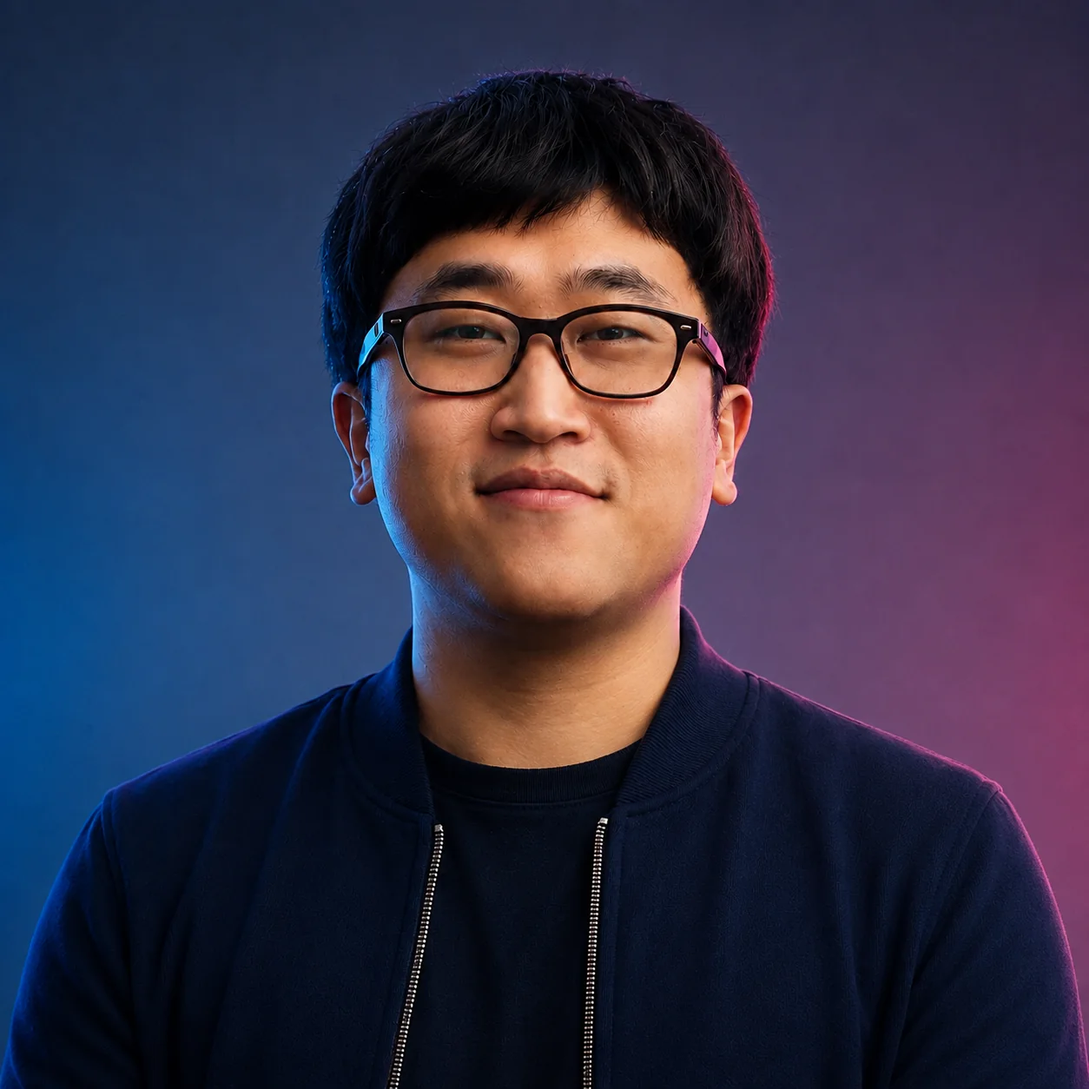
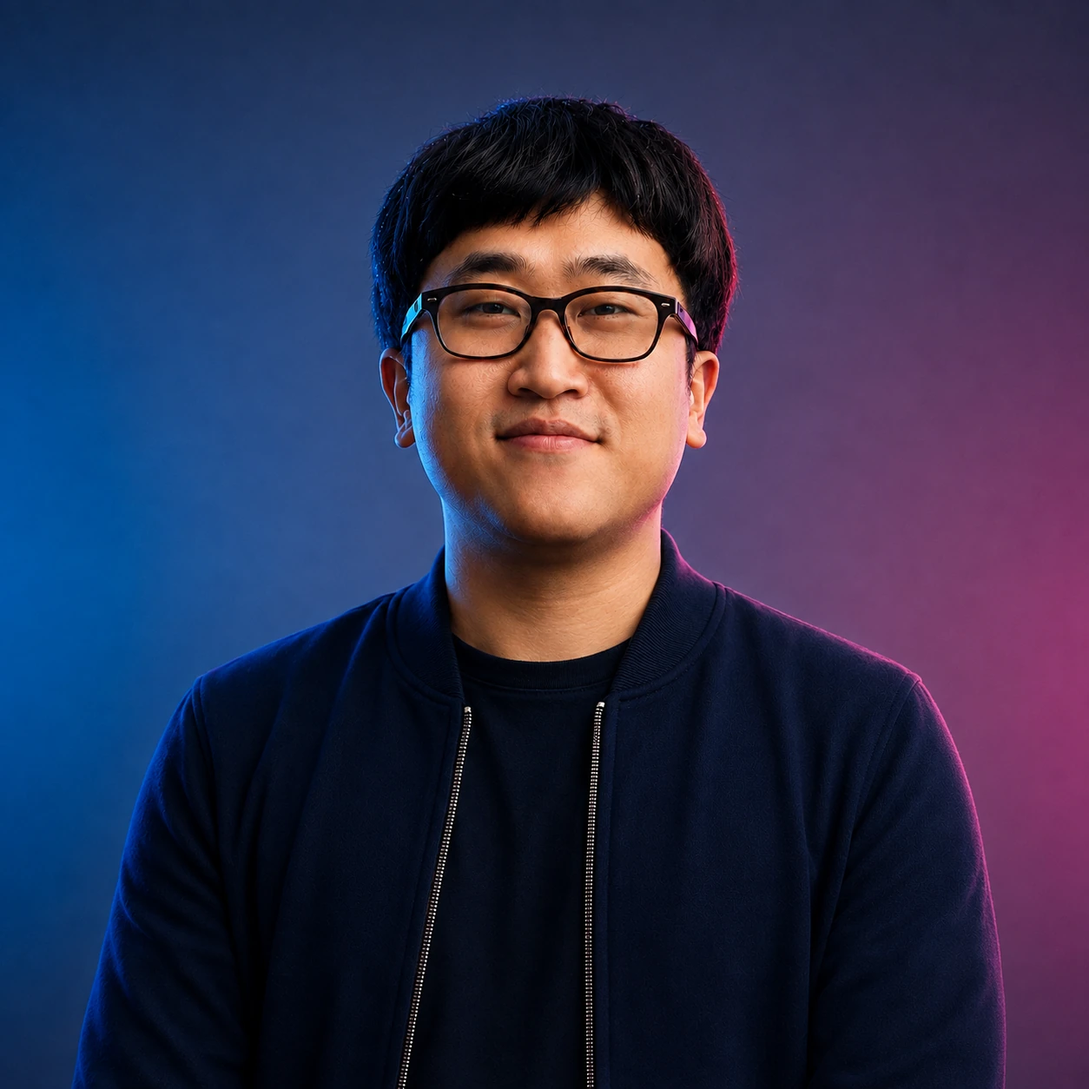
Add files via upload

diff --git a/index.html b/index.html
@@ -23,7 +23,7 @@
   <link rel="preconnect" href="https://www.googletagmanager.com" crossorigin />
   <link rel="preload" as="image" href="assets/hero-production-v5.webp" media="(min-width: 769px)" fetchpriority="high" />
   <link rel="preload" as="image" href="assets/hero-production-mobile.webp" media="(max-width: 768px)" fetchpriority="high" />
-  <link rel="stylesheet" href="styles.css?v=5.1.1" />
+  <link rel="stylesheet" href="styles.css?v=5.1.4" />
 
   <script async src="https://www.googletagmanager.com/gtag/js?id=G-GRNVQK2Z5Y"></script>
   <script defer src="tracking.js?v=5.1.0"></script>
@@ -85,37 +85,47 @@
             <h2 id="works-title">결과물부터<br />확인해보세요.</h2>
           </div>
           <div class="section-aside">
-            <p>대표 작업을 먼저 보여드립니다. 현재는 전체 포트폴리오 링크로 연결되며, 이후 프로젝트별 상세 페이지로 확장할 수 있습니다.</p>
-            <a class="text-link" href="https://youtu.be/D97XtKVZrRY" target="_blank" rel="noopener noreferrer" data-analytics-event="portfolio_all_top">전체 포트폴리오 보기 <span aria-hidden="true">↗</span></a>
+            <p>서로 다른 성격의 작업을 한 화면에서 보여드립니다. 개별 작품 링크는 두지 않고, 전체 포트폴리오는 아래 QR을 통해 확인할 수 있습니다.</p>
           </div>
         </div>
 
-        <div class="featured-grid">
-          <a class="feature-card feature-large reveal" href="https://youtu.be/D97XtKVZrRY" target="_blank" rel="noopener noreferrer" data-analytics-event="work_hotel">
-            <img src="assets/work-jeju-shilla.webp" width="1800" height="1012" alt="호텔 및 공간 홍보 영상 작업 프레임" loading="lazy" decoding="async" />
-            <div class="feature-overlay"><span>HOTEL / SPACE</span><h3>Hotel & Space Film</h3><p>공간의 분위기와 브랜드 경험을 영상으로 연결합니다.</p></div>
-          </a>
-          <a class="feature-card reveal" href="https://youtu.be/D97XtKVZrRY" target="_blank" rel="noopener noreferrer" data-analytics-event="work_brand">
-            <img src="assets/work-petitfee.webp" width="1280" height="676" alt="브랜드 콘텐츠 작업 프레임" loading="lazy" decoding="async" />
-            <div class="feature-overlay"><span>BRAND / PRODUCT</span><h3>Brand Content</h3><p>제품과 서비스의 핵심을 시각적으로 설계합니다.</p></div>
-          </a>
-          <a class="feature-card reveal" href="https://youtu.be/D97XtKVZrRY" target="_blank" rel="noopener noreferrer" data-analytics-event="work_interview">
-            <img src="assets/work-interview.webp" width="1800" height="1012" alt="인터뷰 영상 작업 프레임" loading="lazy" decoding="async" />
-            <div class="feature-overlay"><span>INTERVIEW / DOCUMENTARY</span><h3>Interview & Documentary</h3><p>사람과 이야기를 자연스럽고 설득력 있게 담습니다.</p></div>
-          </a>
-          <a class="feature-card feature-wide reveal" href="https://youtu.be/D97XtKVZrRY" target="_blank" rel="noopener noreferrer" data-analytics-event="work_narrative">
-            <img src="assets/work-narrative.webp" width="1472" height="1080" alt="드라마타이즈 및 서사 영상 작업 프레임" loading="lazy" decoding="async" />
-            <div class="feature-overlay"><span>NARRATIVE / CINEMATIC</span><h3>Narrative Film</h3><p>감정과 서사가 필요한 프로젝트를 시네마틱하게 완성합니다.</p></div>
-          </a>
+        <div class="selected-work-grid">
+          <article class="selected-work-card reveal">
+            <img src="assets/work-campus-promo.webp" width="1600" height="900" alt="백석문화대학교 캠퍼스 홍보 영상 작업 프레임" loading="lazy" decoding="async" />
+            <div class="selected-work-copy"><span>01 · PROMOTION</span><h3>캠퍼스 홍보 영상</h3><p>백석문화대학교 미디어영상학부의 분위기와 전공 매력을 밝고 친근하게 담았습니다.</p></div>
+          </article>
+          <article class="selected-work-card reveal">
+            <img src="assets/work-koreatech-festival-new.webp" width="1600" height="900" alt="한국기술교육대학교 축제 공연 작업 프레임" loading="lazy" decoding="async" />
+            <div class="selected-work-copy"><span>02 · EVENT</span><h3>공연 스케치 영상</h3><p>한국기술교육대학교 축제 현장의 열기와 관객의 에너지를 생생하게 기록했습니다.</p></div>
+          </article>
+          <article class="selected-work-card reveal">
+            <img src="assets/work-live-clip.webp" width="1600" height="900" alt="라이브 클립 작업 프레임" loading="lazy" decoding="async" />
+            <div class="selected-work-copy"><span>03 · LIVE</span><h3>라이브 클립</h3><p>보컬의 호흡과 현장의 온도를 가까이에서 느낄 수 있도록 담은 라이브 퍼포먼스 영상입니다.</p></div>
+          </article>
+          <article class="selected-work-card reveal">
+            <img src="assets/work-music-video.webp" width="1600" height="900" alt="뮤직 비디오 작업 프레임" loading="lazy" decoding="async" />
+            <div class="selected-work-copy"><span>04 · MUSIC</span><h3>뮤직 비디오</h3><p>어쿠스틱 퍼포먼스의 감정과 리듬을 따뜻한 이미지로 풀어낸 뮤직 비디오입니다.</p></div>
+          </article>
+          <article class="selected-work-card reveal">
+            <img src="assets/work-branding-film.webp" width="1600" height="900" alt="브랜딩 필름 작업 프레임" loading="lazy" decoding="async" />
+            <div class="selected-work-copy"><span>05 · BRANDING</span><h3>브랜딩 필름</h3><p>공간의 변화와 이야기를 인터뷰 중심으로 연결해 기관의 메시지를 전달한 브랜딩 필름입니다.</p></div>
+          </article>
+          <article class="selected-work-card reveal">
+            <img src="assets/work-documentary.webp" width="1600" height="900" alt="다큐멘터리 작업 프레임" loading="lazy" decoding="async" />
+            <div class="selected-work-copy"><span>06 · DOCUMENTARY</span><h3>다큐멘터리</h3><p>현장과 인물의 시간을 관찰하며 사실과 맥락을 차분하게 쌓아가는 다큐멘터리 작업입니다.</p></div>
+          </article>
         </div>
 
-        <div class="showreel-strip reveal">
+        <div class="portfolio-qr-strip reveal">
           <div>
-            <span class="section-kicker">SHOWREEL</span>
-            <h3>말보다 프레임으로.</h3>
-            <p>기획부터 촬영, 조명, 드론, 편집까지 하나의 쇼릴에서 확인하세요.</p>
+            <span class="section-kicker">FULL PORTFOLIO</span>
+            <h3>전체 포트폴리오는 QR로.</h3>
+            <p>링크를 여러 곳에 반복하지 않고, 하나의 QR에서 전체 포트폴리오 영상을 확인할 수 있도록 정리했습니다.</p>
           </div>
-          <a class="btn btn-outline" href="https://youtu.be/D97XtKVZrRY" target="_blank" rel="noopener noreferrer" data-analytics-event="showreel_play">SHOWREEL 보기 <span aria-hidden="true">▶</span></a>
+          <div class="portfolio-qr-box">
+            <img src="assets/showreel-qr.png" width="410" height="410" alt="Matthew Creative 전체 포트폴리오 YouTube QR 코드" loading="lazy" decoding="async" />
+            <span>SCAN TO WATCH</span>
+          </div>
         </div>
       </div>
     </section>
@@ -127,7 +137,7 @@
             <p class="section-kicker dark">02 · SERVICES</p>
             <h2 id="services-title">필요한 영상이<br />무엇인지부터 봅니다.</h2>
           </div>
-          <div class="section-aside dark-copy"><p>장르를 나열하기보다 클라이언트가 영상을 어디에, 왜 사용하는지에서 출발합니다.</p></div>
+          <div class="section-aside dark-copy"><p>장르를 나열하기보다 클라이언트가 영상을 어디에,<br />왜 사용하는지에서 출발합니다.</p></div>
         </div>
         <div class="service-grid four">
           <article class="service-card reveal"><span class="service-icon">01</span><h3>Brand / Corporate</h3><p>기업 · 브랜드 · 제품 · 서비스 홍보 영상</p></article>
@@ -192,7 +202,7 @@
       <div class="container">
         <div class="section-head reveal">
           <div><p class="section-kicker dark">05 · PROCESS</p><h2 id="process-title">과정은 단순하게,<br />책임은 분명하게.</h2></div>
-          <div class="section-aside dark-copy"><p>한 명의 디렉터가 전 과정을 이해하기 때문에 수정 방향은 빠르고 결과물의 톤은 끝까지 이어집니다.</p></div>
+          <div class="section-aside dark-copy"><p>한 명의 디렉터가 전 과정을 이해하기 때문에 수정 방향은 빠르고<br />결과물의 톤은 끝까지 이어집니다.</p></div>
         </div>
         <ol class="process-list compact">
           <li class="reveal"><span>01</span><div><h3>Brief</h3><p>목적 · 타깃 · 예산 · 일정 정리</p></div></li>
@@ -212,7 +222,7 @@
         <div class="director-copy reveal">
           <p class="section-kicker">06 · DIRECTOR</p>
           <h2 id="director-title">오세영 <small>/ Director</small></h2>
-          <p class="director-lead">영화적 시선과 현장 경험을 기반으로 브랜드와 프로젝트의 목적에 맞는 영상을 기획부터 완성까지 직접 설계합니다.</p>
+          <p class="director-lead">영화적 시선과 현장 경험을 기반으로 브랜드와 프로젝트의 목적에 맞는 영상을 기획부터 완성까지<br />직접 설계합니다.</p>
           <div class="bio-list">
             <div><span>EDUCATION</span><p>서울예술대학교 영화과 졸업</p></div>
             <div><span>EXPERIENCE</span><p>영화 · TV CF 촬영팀을 거쳐 영상 제작 전 공정 수행</p></div>
@@ -228,33 +238,61 @@
           <div><p class="section-kicker">07 · FESTIVALS &amp; AWARDS</p><h2 id="recognition-title">영화제 진출과 수상으로<br />쌓아온 작업의 기록.</h2></div>
         </div>
         <div class="award-grid">
-          <article class="award reveal">
-            <div class="award-emblem"><span class="laurel-left"><svg class="laurel" viewBox="0 0 56 90" aria-hidden="true"><g fill="none" stroke="currentColor" stroke-width="2" stroke-linecap="round"><path d="M42 84C19 72 11 48 17 19"/><path d="M17 25c-8-3-12-9-12-16 8 2 13 7 14 15M16 36c-8 0-13-4-16-10 8-1 14 2 18 8M18 49c-8 2-14 0-19-5 7-3 14-2 19 2M23 61c-7 4-13 4-19 1 6-5 13-6 20-3M31 72c-6 6-12 7-19 6 5-6 11-9 19-8M18 17c-2-8 0-14 5-19 3 7 2 14-2 20M18 31c1-8 5-13 11-17 1 8-2 14-9 19M20 45c3-8 8-12 15-14-1 8-5 14-13 17M25 58c4-7 10-10 18-10-3 8-9 12-17 13M34 70c5-6 12-8 19-6-4 7-11 10-19 9"/></g></svg></span><div class="award-mark"><span>2013</span><h3>서울독립영화제 · 부산국제단편영화제</h3></div><span class="laurel-right"><svg class="laurel" viewBox="0 0 56 90" aria-hidden="true"><g fill="none" stroke="currentColor" stroke-width="2" stroke-linecap="round"><path d="M42 84C19 72 11 48 17 19"/><path d="M17 25c-8-3-12-9-12-16 8 2 13 7 14 15M16 36c-8 0-13-4-16-10 8-1 14 2 18 8M18 49c-8 2-14 0-19-5 7-3 14-2 19 2M23 61c-7 4-13 4-19 1 6-5 13-6 20-3M31 72c-6 6-12 7-19 6 5-6 11-9 19-8M18 17c-2-8 0-14 5-19 3 7 2 14-2 20M18 31c1-8 5-13 11-17 1 8-2 14-9 19M20 45c3-8 8-12 15-14-1 8-5 14-13 17M25 58c4-7 10-10 18-10-3 8-9 12-17 13M34 70c5-6 12-8 19-6-4 7-11 10-19 9"/></g></svg></span></div>
-            <p>〈멜로영화〉 촬영 · 조명 / 경쟁부문 진출</p>
+          <article class="award reveal award-1">
+            <div class="award-laurel-wrap">
+              <span class="laurel-left"><svg class="laurel" viewBox="0 0 56 90" aria-hidden="true"><g fill="none" stroke="currentColor" stroke-width="2" stroke-linecap="round"><path d="M42 84C19 72 11 48 17 19"/><path d="M17 25c-8-3-12-9-12-16 8 2 13 7 14 15M16 36c-8 0-13-4-16-10 8-1 14 2 18 8M18 49c-8 2-14 0-19-5 7-3 14-2 19 2M23 61c-7 4-13 4-19 1 6-5 13-6 20-3M31 72c-6 6-12 7-19 6 5-6 11-9 19-8M18 17c-2-8 0-14 5-19 3 7 2 14-2 20M18 31c1-8 5-13 11-17 1 8-2 14-9 19M20 45c3-8 8-12 15-14-1 8-5 14-13 17M25 58c4-7 10-10 18-10-3 8-9 12-17 13M34 70c5-6 12-8 19-6-4 7-11 10-19 9"/></g></svg></span>
+              <div class="award-center"><span>2013</span><h3>서울독립영화제 · 부산국제단편영화제</h3><strong>경쟁부문 진출</strong></div>
+              <span class="laurel-right"><svg class="laurel" viewBox="0 0 56 90" aria-hidden="true"><g fill="none" stroke="currentColor" stroke-width="2" stroke-linecap="round"><path d="M42 84C19 72 11 48 17 19"/><path d="M17 25c-8-3-12-9-12-16 8 2 13 7 14 15M16 36c-8 0-13-4-16-10 8-1 14 2 18 8M18 49c-8 2-14 0-19-5 7-3 14-2 19 2M23 61c-7 4-13 4-19 1 6-5 13-6 20-3M31 72c-6 6-12 7-19 6 5-6 11-9 19-8M18 17c-2-8 0-14 5-19 3 7 2 14-2 20M18 31c1-8 5-13 11-17 1 8-2 14-9 19M20 45c3-8 8-12 15-14-1 8-5 14-13 17M25 58c4-7 10-10 18-10-3 8-9 12-17 13M34 70c5-6 12-8 19-6-4 7-11 10-19 9"/></g></svg></span>
+            </div>
+            <p>〈멜로영화〉 촬영 · 조명</p>
           </article>
-          <article class="award reveal">
-            <div class="award-emblem"><span class="laurel-left"><svg class="laurel" viewBox="0 0 56 90" aria-hidden="true"><g fill="none" stroke="currentColor" stroke-width="2" stroke-linecap="round"><path d="M42 84C19 72 11 48 17 19"/><path d="M17 25c-8-3-12-9-12-16 8 2 13 7 14 15M16 36c-8 0-13-4-16-10 8-1 14 2 18 8M18 49c-8 2-14 0-19-5 7-3 14-2 19 2M23 61c-7 4-13 4-19 1 6-5 13-6 20-3M31 72c-6 6-12 7-19 6 5-6 11-9 19-8M18 17c-2-8 0-14 5-19 3 7 2 14-2 20M18 31c1-8 5-13 11-17 1 8-2 14-9 19M20 45c3-8 8-12 15-14-1 8-5 14-13 17M25 58c4-7 10-10 18-10-3 8-9 12-17 13M34 70c5-6 12-8 19-6-4 7-11 10-19 9"/></g></svg></span><div class="award-mark"><span>2013</span><h3>졸업영화제 기술상</h3></div><span class="laurel-right"><svg class="laurel" viewBox="0 0 56 90" aria-hidden="true"><g fill="none" stroke="currentColor" stroke-width="2" stroke-linecap="round"><path d="M42 84C19 72 11 48 17 19"/><path d="M17 25c-8-3-12-9-12-16 8 2 13 7 14 15M16 36c-8 0-13-4-16-10 8-1 14 2 18 8M18 49c-8 2-14 0-19-5 7-3 14-2 19 2M23 61c-7 4-13 4-19 1 6-5 13-6 20-3M31 72c-6 6-12 7-19 6 5-6 11-9 19-8M18 17c-2-8 0-14 5-19 3 7 2 14-2 20M18 31c1-8 5-13 11-17 1 8-2 14-9 19M20 45c3-8 8-12 15-14-1 8-5 14-13 17M25 58c4-7 10-10 18-10-3 8-9 12-17 13M34 70c5-6 12-8 19-6-4 7-11 10-19 9"/></g></svg></span></div>
+          <article class="award reveal award-2">
+            <div class="award-laurel-wrap">
+              <span class="laurel-left"><svg class="laurel" viewBox="0 0 56 90" aria-hidden="true"><g fill="none" stroke="currentColor" stroke-width="2" stroke-linecap="round"><path d="M42 84C19 72 11 48 17 19"/><path d="M17 25c-8-3-12-9-12-16 8 2 13 7 14 15M16 36c-8 0-13-4-16-10 8-1 14 2 18 8M18 49c-8 2-14 0-19-5 7-3 14-2 19 2M23 61c-7 4-13 4-19 1 6-5 13-6 20-3M31 72c-6 6-12 7-19 6 5-6 11-9 19-8M18 17c-2-8 0-14 5-19 3 7 2 14-2 20M18 31c1-8 5-13 11-17 1 8-2 14-9 19M20 45c3-8 8-12 15-14-1 8-5 14-13 17M25 58c4-7 10-10 18-10-3 8-9 12-17 13M34 70c5-6 12-8 19-6-4 7-11 10-19 9"/></g></svg></span>
+              <div class="award-center"><span>2013</span><h3>졸업영화제 기술상</h3><strong>기술상</strong></div>
+              <span class="laurel-right"><svg class="laurel" viewBox="0 0 56 90" aria-hidden="true"><g fill="none" stroke="currentColor" stroke-width="2" stroke-linecap="round"><path d="M42 84C19 72 11 48 17 19"/><path d="M17 25c-8-3-12-9-12-16 8 2 13 7 14 15M16 36c-8 0-13-4-16-10 8-1 14 2 18 8M18 49c-8 2-14 0-19-5 7-3 14-2 19 2M23 61c-7 4-13 4-19 1 6-5 13-6 20-3M31 72c-6 6-12 7-19 6 5-6 11-9 19-8M18 17c-2-8 0-14 5-19 3 7 2 14-2 20M18 31c1-8 5-13 11-17 1 8-2 14-9 19M20 45c3-8 8-12 15-14-1 8-5 14-13 17M25 58c4-7 10-10 18-10-3 8-9 12-17 13M34 70c5-6 12-8 19-6-4 7-11 10-19 9"/></g></svg></span>
+            </div>
             <p>〈나그네〉 촬영</p>
           </article>
-          <article class="award reveal">
-            <div class="award-emblem"><span class="laurel-left"><svg class="laurel" viewBox="0 0 56 90" aria-hidden="true"><g fill="none" stroke="currentColor" stroke-width="2" stroke-linecap="round"><path d="M42 84C19 72 11 48 17 19"/><path d="M17 25c-8-3-12-9-12-16 8 2 13 7 14 15M16 36c-8 0-13-4-16-10 8-1 14 2 18 8M18 49c-8 2-14 0-19-5 7-3 14-2 19 2M23 61c-7 4-13 4-19 1 6-5 13-6 20-3M31 72c-6 6-12 7-19 6 5-6 11-9 19-8M18 17c-2-8 0-14 5-19 3 7 2 14-2 20M18 31c1-8 5-13 11-17 1 8-2 14-9 19M20 45c3-8 8-12 15-14-1 8-5 14-13 17M25 58c4-7 10-10 18-10-3 8-9 12-17 13M34 70c5-6 12-8 19-6-4 7-11 10-19 9"/></g></svg></span><div class="award-mark"><span>2014</span><h3>인디포럼 초청</h3></div><span class="laurel-right"><svg class="laurel" viewBox="0 0 56 90" aria-hidden="true"><g fill="none" stroke="currentColor" stroke-width="2" stroke-linecap="round"><path d="M42 84C19 72 11 48 17 19"/><path d="M17 25c-8-3-12-9-12-16 8 2 13 7 14 15M16 36c-8 0-13-4-16-10 8-1 14 2 18 8M18 49c-8 2-14 0-19-5 7-3 14-2 19 2M23 61c-7 4-13 4-19 1 6-5 13-6 20-3M31 72c-6 6-12 7-19 6 5-6 11-9 19-8M18 17c-2-8 0-14 5-19 3 7 2 14-2 20M18 31c1-8 5-13 11-17 1 8-2 14-9 19M20 45c3-8 8-12 15-14-1 8-5 14-13 17M25 58c4-7 10-10 18-10-3 8-9 12-17 13M34 70c5-6 12-8 19-6-4 7-11 10-19 9"/></g></svg></span></div>
+          <article class="award reveal award-3">
+            <div class="award-laurel-wrap">
+              <span class="laurel-left"><svg class="laurel" viewBox="0 0 56 90" aria-hidden="true"><g fill="none" stroke="currentColor" stroke-width="2" stroke-linecap="round"><path d="M42 84C19 72 11 48 17 19"/><path d="M17 25c-8-3-12-9-12-16 8 2 13 7 14 15M16 36c-8 0-13-4-16-10 8-1 14 2 18 8M18 49c-8 2-14 0-19-5 7-3 14-2 19 2M23 61c-7 4-13 4-19 1 6-5 13-6 20-3M31 72c-6 6-12 7-19 6 5-6 11-9 19-8M18 17c-2-8 0-14 5-19 3 7 2 14-2 20M18 31c1-8 5-13 11-17 1 8-2 14-9 19M20 45c3-8 8-12 15-14-1 8-5 14-13 17M25 58c4-7 10-10 18-10-3 8-9 12-17 13M34 70c5-6 12-8 19-6-4 7-11 10-19 9"/></g></svg></span>
+              <div class="award-center"><span>2014</span><h3>인디포럼</h3><strong>초청</strong></div>
+              <span class="laurel-right"><svg class="laurel" viewBox="0 0 56 90" aria-hidden="true"><g fill="none" stroke="currentColor" stroke-width="2" stroke-linecap="round"><path d="M42 84C19 72 11 48 17 19"/><path d="M17 25c-8-3-12-9-12-16 8 2 13 7 14 15M16 36c-8 0-13-4-16-10 8-1 14 2 18 8M18 49c-8 2-14 0-19-5 7-3 14-2 19 2M23 61c-7 4-13 4-19 1 6-5 13-6 20-3M31 72c-6 6-12 7-19 6 5-6 11-9 19-8M18 17c-2-8 0-14 5-19 3 7 2 14-2 20M18 31c1-8 5-13 11-17 1 8-2 14-9 19M20 45c3-8 8-12 15-14-1 8-5 14-13 17M25 58c4-7 10-10 18-10-3 8-9 12-17 13M34 70c5-6 12-8 19-6-4 7-11 10-19 9"/></g></svg></span>
+            </div>
             <p>〈토요일 밤, 일요일 아침〉 촬영 · 조명</p>
           </article>
-          <article class="award reveal">
-            <div class="award-emblem"><span class="laurel-left"><svg class="laurel" viewBox="0 0 56 90" aria-hidden="true"><g fill="none" stroke="currentColor" stroke-width="2" stroke-linecap="round"><path d="M42 84C19 72 11 48 17 19"/><path d="M17 25c-8-3-12-9-12-16 8 2 13 7 14 15M16 36c-8 0-13-4-16-10 8-1 14 2 18 8M18 49c-8 2-14 0-19-5 7-3 14-2 19 2M23 61c-7 4-13 4-19 1 6-5 13-6 20-3M31 72c-6 6-12 7-19 6 5-6 11-9 19-8M18 17c-2-8 0-14 5-19 3 7 2 14-2 20M18 31c1-8 5-13 11-17 1 8-2 14-9 19M20 45c3-8 8-12 15-14-1 8-5 14-13 17M25 58c4-7 10-10 18-10-3 8-9 12-17 13M34 70c5-6 12-8 19-6-4 7-11 10-19 9"/></g></svg></span><div class="award-mark"><span>2015</span><h3>졸업영화제 최우수상</h3></div><span class="laurel-right"><svg class="laurel" viewBox="0 0 56 90" aria-hidden="true"><g fill="none" stroke="currentColor" stroke-width="2" stroke-linecap="round"><path d="M42 84C19 72 11 48 17 19"/><path d="M17 25c-8-3-12-9-12-16 8 2 13 7 14 15M16 36c-8 0-13-4-16-10 8-1 14 2 18 8M18 49c-8 2-14 0-19-5 7-3 14-2 19 2M23 61c-7 4-13 4-19 1 6-5 13-6 20-3M31 72c-6 6-12 7-19 6 5-6 11-9 19-8M18 17c-2-8 0-14 5-19 3 7 2 14-2 20M18 31c1-8 5-13 11-17 1 8-2 14-9 19M20 45c3-8 8-12 15-14-1 8-5 14-13 17M25 58c4-7 10-10 18-10-3 8-9 12-17 13M34 70c5-6 12-8 19-6-4 7-11 10-19 9"/></g></svg></span></div>
+          <article class="award reveal award-4">
+            <div class="award-laurel-wrap">
+              <span class="laurel-left"><svg class="laurel" viewBox="0 0 56 90" aria-hidden="true"><g fill="none" stroke="currentColor" stroke-width="2" stroke-linecap="round"><path d="M42 84C19 72 11 48 17 19"/><path d="M17 25c-8-3-12-9-12-16 8 2 13 7 14 15M16 36c-8 0-13-4-16-10 8-1 14 2 18 8M18 49c-8 2-14 0-19-5 7-3 14-2 19 2M23 61c-7 4-13 4-19 1 6-5 13-6 20-3M31 72c-6 6-12 7-19 6 5-6 11-9 19-8M18 17c-2-8 0-14 5-19 3 7 2 14-2 20M18 31c1-8 5-13 11-17 1 8-2 14-9 19M20 45c3-8 8-12 15-14-1 8-5 14-13 17M25 58c4-7 10-10 18-10-3 8-9 12-17 13M34 70c5-6 12-8 19-6-4 7-11 10-19 9"/></g></svg></span>
+              <div class="award-center"><span>2015</span><h3>졸업영화제</h3><strong>최우수상</strong></div>
+              <span class="laurel-right"><svg class="laurel" viewBox="0 0 56 90" aria-hidden="true"><g fill="none" stroke="currentColor" stroke-width="2" stroke-linecap="round"><path d="M42 84C19 72 11 48 17 19"/><path d="M17 25c-8-3-12-9-12-16 8 2 13 7 14 15M16 36c-8 0-13-4-16-10 8-1 14 2 18 8M18 49c-8 2-14 0-19-5 7-3 14-2 19 2M23 61c-7 4-13 4-19 1 6-5 13-6 20-3M31 72c-6 6-12 7-19 6 5-6 11-9 19-8M18 17c-2-8 0-14 5-19 3 7 2 14-2 20M18 31c1-8 5-13 11-17 1 8-2 14-9 19M20 45c3-8 8-12 15-14-1 8-5 14-13 17M25 58c4-7 10-10 18-10-3 8-9 12-17 13M34 70c5-6 12-8 19-6-4 7-11 10-19 9"/></g></svg></span>
+            </div>
             <p>〈no reply〉 촬영 · 조명</p>
           </article>
-          <article class="award reveal">
-            <div class="award-emblem"><span class="laurel-left"><svg class="laurel" viewBox="0 0 56 90" aria-hidden="true"><g fill="none" stroke="currentColor" stroke-width="2" stroke-linecap="round"><path d="M42 84C19 72 11 48 17 19"/><path d="M17 25c-8-3-12-9-12-16 8 2 13 7 14 15M16 36c-8 0-13-4-16-10 8-1 14 2 18 8M18 49c-8 2-14 0-19-5 7-3 14-2 19 2M23 61c-7 4-13 4-19 1 6-5 13-6 20-3M31 72c-6 6-12 7-19 6 5-6 11-9 19-8M18 17c-2-8 0-14 5-19 3 7 2 14-2 20M18 31c1-8 5-13 11-17 1 8-2 14-9 19M20 45c3-8 8-12 15-14-1 8-5 14-13 17M25 58c4-7 10-10 18-10-3 8-9 12-17 13M34 70c5-6 12-8 19-6-4 7-11 10-19 9"/></g></svg></span><div class="award-mark"><span>2016</span><h3>부천국제판타스틱영화제</h3></div><span class="laurel-right"><svg class="laurel" viewBox="0 0 56 90" aria-hidden="true"><g fill="none" stroke="currentColor" stroke-width="2" stroke-linecap="round"><path d="M42 84C19 72 11 48 17 19"/><path d="M17 25c-8-3-12-9-12-16 8 2 13 7 14 15M16 36c-8 0-13-4-16-10 8-1 14 2 18 8M18 49c-8 2-14 0-19-5 7-3 14-2 19 2M23 61c-7 4-13 4-19 1 6-5 13-6 20-3M31 72c-6 6-12 7-19 6 5-6 11-9 19-8M18 17c-2-8 0-14 5-19 3 7 2 14-2 20M18 31c1-8 5-13 11-17 1 8-2 14-9 19M20 45c3-8 8-12 15-14-1 8-5 14-13 17M25 58c4-7 10-10 18-10-3 8-9 12-17 13M34 70c5-6 12-8 19-6-4 7-11 10-19 9"/></g></svg></span></div>
-            <p>〈인질의 극〉 촬영 · 조명 / 장편경쟁부문 진출</p>
+          <article class="award reveal award-5">
+            <div class="award-laurel-wrap">
+              <span class="laurel-left"><svg class="laurel" viewBox="0 0 56 90" aria-hidden="true"><g fill="none" stroke="currentColor" stroke-width="2" stroke-linecap="round"><path d="M42 84C19 72 11 48 17 19"/><path d="M17 25c-8-3-12-9-12-16 8 2 13 7 14 15M16 36c-8 0-13-4-16-10 8-1 14 2 18 8M18 49c-8 2-14 0-19-5 7-3 14-2 19 2M23 61c-7 4-13 4-19 1 6-5 13-6 20-3M31 72c-6 6-12 7-19 6 5-6 11-9 19-8M18 17c-2-8 0-14 5-19 3 7 2 14-2 20M18 31c1-8 5-13 11-17 1 8-2 14-9 19M20 45c3-8 8-12 15-14-1 8-5 14-13 17M25 58c4-7 10-10 18-10-3 8-9 12-17 13M34 70c5-6 12-8 19-6-4 7-11 10-19 9"/></g></svg></span>
+              <div class="award-center"><span>2016</span><h3>부천국제판타스틱영화제</h3><strong>장편경쟁부문 진출</strong></div>
+              <span class="laurel-right"><svg class="laurel" viewBox="0 0 56 90" aria-hidden="true"><g fill="none" stroke="currentColor" stroke-width="2" stroke-linecap="round"><path d="M42 84C19 72 11 48 17 19"/><path d="M17 25c-8-3-12-9-12-16 8 2 13 7 14 15M16 36c-8 0-13-4-16-10 8-1 14 2 18 8M18 49c-8 2-14 0-19-5 7-3 14-2 19 2M23 61c-7 4-13 4-19 1 6-5 13-6 20-3M31 72c-6 6-12 7-19 6 5-6 11-9 19-8M18 17c-2-8 0-14 5-19 3 7 2 14-2 20M18 31c1-8 5-13 11-17 1 8-2 14-9 19M20 45c3-8 8-12 15-14-1 8-5 14-13 17M25 58c4-7 10-10 18-10-3 8-9 12-17 13M34 70c5-6 12-8 19-6-4 7-11 10-19 9"/></g></svg></span>
+            </div>
+            <p>〈인질의 극〉 촬영 · 조명</p>
           </article>
-          <article class="award reveal">
-            <div class="award-emblem"><span class="laurel-left"><svg class="laurel" viewBox="0 0 56 90" aria-hidden="true"><g fill="none" stroke="currentColor" stroke-width="2" stroke-linecap="round"><path d="M42 84C19 72 11 48 17 19"/><path d="M17 25c-8-3-12-9-12-16 8 2 13 7 14 15M16 36c-8 0-13-4-16-10 8-1 14 2 18 8M18 49c-8 2-14 0-19-5 7-3 14-2 19 2M23 61c-7 4-13 4-19 1 6-5 13-6 20-3M31 72c-6 6-12 7-19 6 5-6 11-9 19-8M18 17c-2-8 0-14 5-19 3 7 2 14-2 20M18 31c1-8 5-13 11-17 1 8-2 14-9 19M20 45c3-8 8-12 15-14-1 8-5 14-13 17M25 58c4-7 10-10 18-10-3 8-9 12-17 13M34 70c5-6 12-8 19-6-4 7-11 10-19 9"/></g></svg></span><div class="award-mark"><span>2018</span><h3>Show Me Shorts Film Festival</h3></div><span class="laurel-right"><svg class="laurel" viewBox="0 0 56 90" aria-hidden="true"><g fill="none" stroke="currentColor" stroke-width="2" stroke-linecap="round"><path d="M42 84C19 72 11 48 17 19"/><path d="M17 25c-8-3-12-9-12-16 8 2 13 7 14 15M16 36c-8 0-13-4-16-10 8-1 14 2 18 8M18 49c-8 2-14 0-19-5 7-3 14-2 19 2M23 61c-7 4-13 4-19 1 6-5 13-6 20-3M31 72c-6 6-12 7-19 6 5-6 11-9 19-8M18 17c-2-8 0-14 5-19 3 7 2 14-2 20M18 31c1-8 5-13 11-17 1 8-2 14-9 19M20 45c3-8 8-12 15-14-1 8-5 14-13 17M25 58c4-7 10-10 18-10-3 8-9 12-17 13M34 70c5-6 12-8 19-6-4 7-11 10-19 9"/></g></svg></span></div>
-            <p>〈단팥죽〉 촬영 / 뉴질랜드 ‘Korean Focus’ 부문 상영작 선정</p>
+          <article class="award reveal award-6">
+            <div class="award-laurel-wrap">
+              <span class="laurel-left"><svg class="laurel" viewBox="0 0 56 90" aria-hidden="true"><g fill="none" stroke="currentColor" stroke-width="2" stroke-linecap="round"><path d="M42 84C19 72 11 48 17 19"/><path d="M17 25c-8-3-12-9-12-16 8 2 13 7 14 15M16 36c-8 0-13-4-16-10 8-1 14 2 18 8M18 49c-8 2-14 0-19-5 7-3 14-2 19 2M23 61c-7 4-13 4-19 1 6-5 13-6 20-3M31 72c-6 6-12 7-19 6 5-6 11-9 19-8M18 17c-2-8 0-14 5-19 3 7 2 14-2 20M18 31c1-8 5-13 11-17 1 8-2 14-9 19M20 45c3-8 8-12 15-14-1 8-5 14-13 17M25 58c4-7 10-10 18-10-3 8-9 12-17 13M34 70c5-6 12-8 19-6-4 7-11 10-19 9"/></g></svg></span>
+              <div class="award-center"><span>2018</span><h3>Show Me Shorts Film Festival</h3><strong>Korean Focus 상영작 선정</strong></div>
+              <span class="laurel-right"><svg class="laurel" viewBox="0 0 56 90" aria-hidden="true"><g fill="none" stroke="currentColor" stroke-width="2" stroke-linecap="round"><path d="M42 84C19 72 11 48 17 19"/><path d="M17 25c-8-3-12-9-12-16 8 2 13 7 14 15M16 36c-8 0-13-4-16-10 8-1 14 2 18 8M18 49c-8 2-14 0-19-5 7-3 14-2 19 2M23 61c-7 4-13 4-19 1 6-5 13-6 20-3M31 72c-6 6-12 7-19 6 5-6 11-9 19-8M18 17c-2-8 0-14 5-19 3 7 2 14-2 20M18 31c1-8 5-13 11-17 1 8-2 14-9 19M20 45c3-8 8-12 15-14-1 8-5 14-13 17M25 58c4-7 10-10 18-10-3 8-9 12-17 13M34 70c5-6 12-8 19-6-4 7-11 10-19 9"/></g></svg></span>
+            </div>
+            <p>〈단팥죽〉 촬영</p>
           </article>
-          <article class="award reveal">
-            <div class="award-emblem"><span class="laurel-left"><svg class="laurel" viewBox="0 0 56 90" aria-hidden="true"><g fill="none" stroke="currentColor" stroke-width="2" stroke-linecap="round"><path d="M42 84C19 72 11 48 17 19"/><path d="M17 25c-8-3-12-9-12-16 8 2 13 7 14 15M16 36c-8 0-13-4-16-10 8-1 14 2 18 8M18 49c-8 2-14 0-19-5 7-3 14-2 19 2M23 61c-7 4-13 4-19 1 6-5 13-6 20-3M31 72c-6 6-12 7-19 6 5-6 11-9 19-8M18 17c-2-8 0-14 5-19 3 7 2 14-2 20M18 31c1-8 5-13 11-17 1 8-2 14-9 19M20 45c3-8 8-12 15-14-1 8-5 14-13 17M25 58c4-7 10-10 18-10-3 8-9 12-17 13M34 70c5-6 12-8 19-6-4 7-11 10-19 9"/></g></svg></span><div class="award-mark"><span>2018</span><h3>충무로단편영화제</h3></div><span class="laurel-right"><svg class="laurel" viewBox="0 0 56 90" aria-hidden="true"><g fill="none" stroke="currentColor" stroke-width="2" stroke-linecap="round"><path d="M42 84C19 72 11 48 17 19"/><path d="M17 25c-8-3-12-9-12-16 8 2 13 7 14 15M16 36c-8 0-13-4-16-10 8-1 14 2 18 8M18 49c-8 2-14 0-19-5 7-3 14-2 19 2M23 61c-7 4-13 4-19 1 6-5 13-6 20-3M31 72c-6 6-12 7-19 6 5-6 11-9 19-8M18 17c-2-8 0-14 5-19 3 7 2 14-2 20M18 31c1-8 5-13 11-17 1 8-2 14-9 19M20 45c3-8 8-12 15-14-1 8-5 14-13 17M25 58c4-7 10-10 18-10-3 8-9 12-17 13M34 70c5-6 12-8 19-6-4 7-11 10-19 9"/></g></svg></span></div>
-            <p>〈단팥죽〉 촬영 / 본선진출</p>
+          <article class="award reveal award-7">
+            <div class="award-laurel-wrap">
+              <span class="laurel-left"><svg class="laurel" viewBox="0 0 56 90" aria-hidden="true"><g fill="none" stroke="currentColor" stroke-width="2" stroke-linecap="round"><path d="M42 84C19 72 11 48 17 19"/><path d="M17 25c-8-3-12-9-12-16 8 2 13 7 14 15M16 36c-8 0-13-4-16-10 8-1 14 2 18 8M18 49c-8 2-14 0-19-5 7-3 14-2 19 2M23 61c-7 4-13 4-19 1 6-5 13-6 20-3M31 72c-6 6-12 7-19 6 5-6 11-9 19-8M18 17c-2-8 0-14 5-19 3 7 2 14-2 20M18 31c1-8 5-13 11-17 1 8-2 14-9 19M20 45c3-8 8-12 15-14-1 8-5 14-13 17M25 58c4-7 10-10 18-10-3 8-9 12-17 13M34 70c5-6 12-8 19-6-4 7-11 10-19 9"/></g></svg></span>
+              <div class="award-center"><span>2018</span><h3>충무로단편영화제</h3><strong>본선 진출</strong></div>
+              <span class="laurel-right"><svg class="laurel" viewBox="0 0 56 90" aria-hidden="true"><g fill="none" stroke="currentColor" stroke-width="2" stroke-linecap="round"><path d="M42 84C19 72 11 48 17 19"/><path d="M17 25c-8-3-12-9-12-16 8 2 13 7 14 15M16 36c-8 0-13-4-16-10 8-1 14 2 18 8M18 49c-8 2-14 0-19-5 7-3 14-2 19 2M23 61c-7 4-13 4-19 1 6-5 13-6 20-3M31 72c-6 6-12 7-19 6 5-6 11-9 19-8M18 17c-2-8 0-14 5-19 3 7 2 14-2 20M18 31c1-8 5-13 11-17 1 8-2 14-9 19M20 45c3-8 8-12 15-14-1 8-5 14-13 17M25 58c4-7 10-10 18-10-3 8-9 12-17 13M34 70c5-6 12-8 19-6-4 7-11 10-19 9"/></g></svg></span>
+            </div>
+            <p>〈단팥죽〉 촬영</p>
           </article>
         </div>
       </div>
@@ -275,7 +313,6 @@
           <div><span>BASE</span><strong>경기 시흥 · 프로젝트 지역에 맞춰 유연하게 운영</strong></div>
           <div class="contact-buttons">
             <a class="btn btn-primary" href="mailto:osyoung_88@hanmail.net?subject=Matthew%20Creative%20프로젝트%20문의" data-analytics-event="contact_mail_button">메일 보내기</a>
-            <a class="btn btn-ghost" href="https://youtu.be/D97XtKVZrRY" target="_blank" rel="noopener noreferrer" data-analytics-event="contact_portfolio">포트폴리오 보기</a>
           </div>
         </div>
       </div>

diff --git a/styles.css b/styles.css
@@ -32,3 +32,172 @@ button{font:inherit;color:inherit}
   .works,.services,.why,.cases,.process,.director,.awards{padding:84px 0}.section-head{grid-template-columns:1fr;gap:22px;margin-bottom:34px}.section-head h2{font-size:clamp(34px,9.6vw,44px);line-height:1.08}.section-aside{justify-self:start;max-width:100%}.section-aside p{font-size:13.5px;line-height:1.75}.featured-grid{grid-template-columns:1fr;gap:12px}.feature-card,.feature-large,.feature-wide{grid-column:auto;min-height:300px}.feature-large{min-height:390px}.feature-overlay{padding:21px}.feature-overlay h3{font-size:20px}.feature-overlay p{font-size:12px}.showreel-strip{padding:23px;align-items:flex-start;flex-direction:column}.showreel-strip h3{font-size:22px}.service-grid.four{grid-template-columns:1fr}.service-card{min-height:auto;padding:24px}.service-card h3{margin:30px 0 8px}.why-grid{grid-template-columns:1fr}.why-card{min-height:auto;padding:27px}.why-card h3{margin:34px 0 8px}.case-grid{grid-template-columns:1fr}.case-card:last-child{grid-column:auto}.mid-cta{padding-bottom:72px}.cta-box{padding:28px;flex-direction:column;align-items:flex-start}.cta-box h2{font-size:23px}.process-list.compact{grid-template-columns:1fr}.process-list li{min-height:auto;display:grid;grid-template-columns:44px 1fr;gap:14px;padding:20px}.process-list h3{margin:0 0 4px}.director-grid{grid-template-columns:1fr;gap:46px}.director-photo{max-width:74vw}.director-copy h2{font-size:40px}.director-copy h2 small{display:block;margin-top:5px}.director-lead{font-size:14px}.bio-list>div{grid-template-columns:95px 1fr}.award-grid{grid-template-columns:1fr;gap:10px}.award{min-height:190px;padding:24px 14px}.award-emblem{min-height:96px}.laurel-left,.laurel-right{width:27px;height:52px}.contact{padding:88px 0}.contact-grid{grid-template-columns:1fr;gap:42px}.contact-copy h2{font-size:clamp(35px,9vw,45px)}.contact-copy>p:last-child{font-size:13.5px}.contact-card{padding:24px}.contact-card>div:not(.contact-buttons){grid-template-columns:70px 1fr}.contact-buttons{flex-direction:column;align-items:stretch}.footer-inner{grid-template-columns:1fr auto;gap:16px}.footer-brand{display:none}.footer-traffic{grid-column:1}.footer-inner p{display:none}#back-to-top{grid-column:2;grid-row:1}
 }
 @media (max-width:390px){.container{margin-left:max(18px,calc(env(safe-area-inset-left) + 18px));margin-right:max(18px,calc(env(safe-area-inset-right) + 18px))}.hero-title{font-size:29px}.hero-copy{font-size:12.8px}.feature-large{min-height:350px}.section-head h2{font-size:33px}.contact-card strong,.contact-card a{font-size:12px}}
+
+
+/* v5.1.3 — static selected works, QR-only portfolio access, balanced festivals layout */
+.selected-work-grid{
+  display:grid;
+  grid-template-columns:repeat(3,minmax(0,1fr));
+  gap:16px;
+}
+.selected-work-card{
+  min-width:0;
+  border:1px solid var(--line);
+  background:rgba(255,255,255,.018);
+  overflow:hidden;
+}
+.selected-work-card img{
+  width:100%;
+  aspect-ratio:16/9;
+  object-fit:cover;
+  display:block;
+}
+.selected-work-copy{padding:20px 21px 23px}
+.selected-work-copy>span{
+  display:block;
+  margin-bottom:8px;
+  font-size:9px;
+  font-weight:800;
+  letter-spacing:.14em;
+  color:#aaa0ff;
+}
+.selected-work-copy h3{
+  margin:0 0 7px;
+  font-size:20px;
+  letter-spacing:-.025em;
+}
+.selected-work-copy p{
+  margin:0;
+  color:var(--muted);
+  font-size:12.5px;
+  line-height:1.7;
+}
+.portfolio-qr-strip{
+  margin-top:18px;
+  padding:28px 30px;
+  border:1px solid var(--line);
+  display:flex;
+  align-items:center;
+  justify-content:space-between;
+  gap:36px;
+  background:rgba(255,255,255,.018);
+}
+.portfolio-qr-strip h3{margin:3px 0 5px;font-size:25px}
+.portfolio-qr-strip p{margin:0;max-width:620px;color:var(--muted);font-size:13px;line-height:1.7}
+.portfolio-qr-box{display:flex;align-items:center;gap:14px;flex-shrink:0}
+.portfolio-qr-box img{
+  width:112px;
+  height:112px;
+  background:#fff;
+  padding:6px;
+  border-radius:2px;
+}
+.portfolio-qr-box span{
+  writing-mode:vertical-rl;
+  font-size:8px;
+  letter-spacing:.16em;
+  color:#8f97a5;
+  font-weight:800;
+}
+
+/* Awards/festivals: 4 + centered 3 on desktop, no awkward single orphan card */
+.awards-head{margin-bottom:34px}
+.award-grid{
+  display:grid !important;
+  grid-template-columns:repeat(12,minmax(0,1fr)) !important;
+  gap:10px 12px !important;
+  align-items:stretch;
+}
+.award{
+  grid-column:span 3;
+  min-height:205px !important;
+  padding:24px 12px 20px !important;
+  border:0 !important;
+  border-top:1px solid var(--line) !important;
+  border-bottom:1px solid var(--line) !important;
+  background:transparent !important;
+}
+.award:nth-child(5){grid-column:2 / span 3}
+.award:nth-child(6){grid-column:5 / span 3}
+.award:nth-child(7){grid-column:8 / span 3}
+.award:hover{
+  transform:none !important;
+  border-color:rgba(167,156,255,.28) !important;
+  background:rgba(255,255,255,.012) !important;
+}
+.award-laurel-wrap{
+  min-height:122px;
+  display:flex;
+  align-items:center;
+  justify-content:center;
+  gap:7px;
+  color:rgba(220,222,230,.52);
+}
+.award-center{
+  width:min(180px,70%);
+  display:flex;
+  flex-direction:column;
+  align-items:center;
+}
+.award-center>span{
+  margin-bottom:6px;
+  font-size:9px;
+  line-height:1;
+  letter-spacing:.18em;
+  color:#9d91ff;
+  font-weight:800;
+}
+.award-center h3{
+  margin:0;
+  min-height:40px;
+  display:flex;
+  align-items:center;
+  justify-content:center;
+  font-size:13px;
+  line-height:1.45;
+  text-align:center;
+}
+.award-center strong{
+  display:block;
+  margin-top:8px;
+  color:#d7d9df;
+  font-size:10px;
+  font-weight:700;
+  line-height:1.45;
+}
+.award p{
+  margin:9px auto 0 !important;
+  max-width:245px !important;
+  min-height:35px;
+  font-size:10.5px !important;
+  line-height:1.55 !important;
+  color:#8f97a5 !important;
+}
+.award .laurel-left,.award .laurel-right{
+  width:28px !important;
+  height:53px !important;
+  flex:0 0 auto;
+}
+
+@media (max-width:1000px){
+  .selected-work-grid{grid-template-columns:repeat(2,minmax(0,1fr))}
+  .award-grid{grid-template-columns:repeat(2,minmax(0,1fr)) !important}
+  .award,.award:nth-child(5),.award:nth-child(6),.award:nth-child(7){grid-column:auto !important}
+  .award:nth-child(7){grid-column:1 / -1 !important;max-width:50%;width:100%;justify-self:center}
+}
+@media (max-width:768px){
+  .selected-work-grid{grid-template-columns:1fr;gap:12px}
+  .selected-work-copy{padding:18px 18px 20px}
+  .selected-work-copy h3{font-size:19px}
+  .portfolio-qr-strip{padding:22px;flex-direction:column;align-items:flex-start;gap:22px}
+  .portfolio-qr-box{width:100%;justify-content:flex-start}
+  .portfolio-qr-box img{width:116px;height:116px}
+  .award-grid{grid-template-columns:1fr !important;gap:0 !important}
+  .award,.award:nth-child(5),.award:nth-child(6),.award:nth-child(7){
+    grid-column:auto !important;
+    max-width:none !important;
+    width:auto !important;
+    min-height:178px !important;
+  }
+  .award-laurel-wrap{min-height:104px}
+}

diff --git a/README.md b/README.md
@@ -36,3 +36,7 @@ Matthew Creative portfolio website.
 - v5.1.0: 사용자가 지정한 히어로 원본 사진 적용. 얼굴/피사체 AI 수정 없음. 데스크톱은 전체 프레임 유지, 모바일은 동일 원본의 크롭만 사용. 작동 확인용 YouTube 포트폴리오 QR 재생성.
 
 - v5.1.1: RECOGNITION을 FESTIVALS & AWARDS로 개편. 영화제 진출/상영/수상 성격을 반영하고 각 기록에 월계수 엠블럼을 추가. 다크 시네마틱 스타일 유지.
+
+- v5.1.3: 디렉터 사진 교체(사용자 원본 그대로), Selected Work 6개를 정적 카드로 변경하여 개별/반복 YouTube 링크 제거, 실제 작동 QR만 전체 포트폴리오 진입점으로 유지, Festivals & Awards를 데스크톱 4+3 중앙 정렬 구조로 재배치.
+
+- v5.1.4: Services / Process / Director 주요 소개 문장의 줄바꿈을 지정된 위치로 고정해 PC·모바일 문장 호흡 정리.
